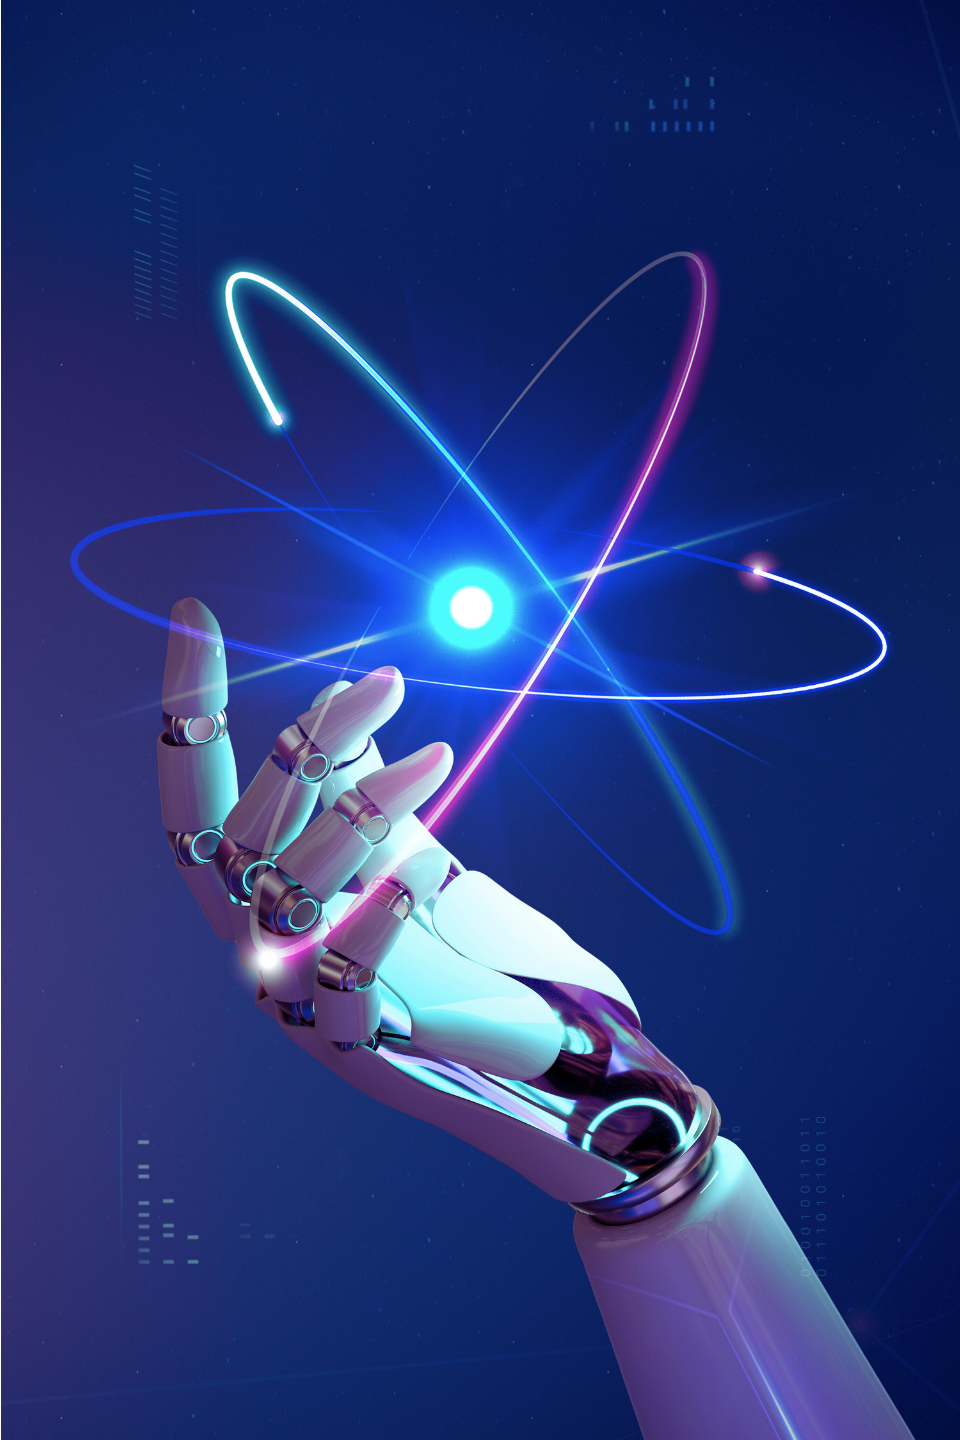
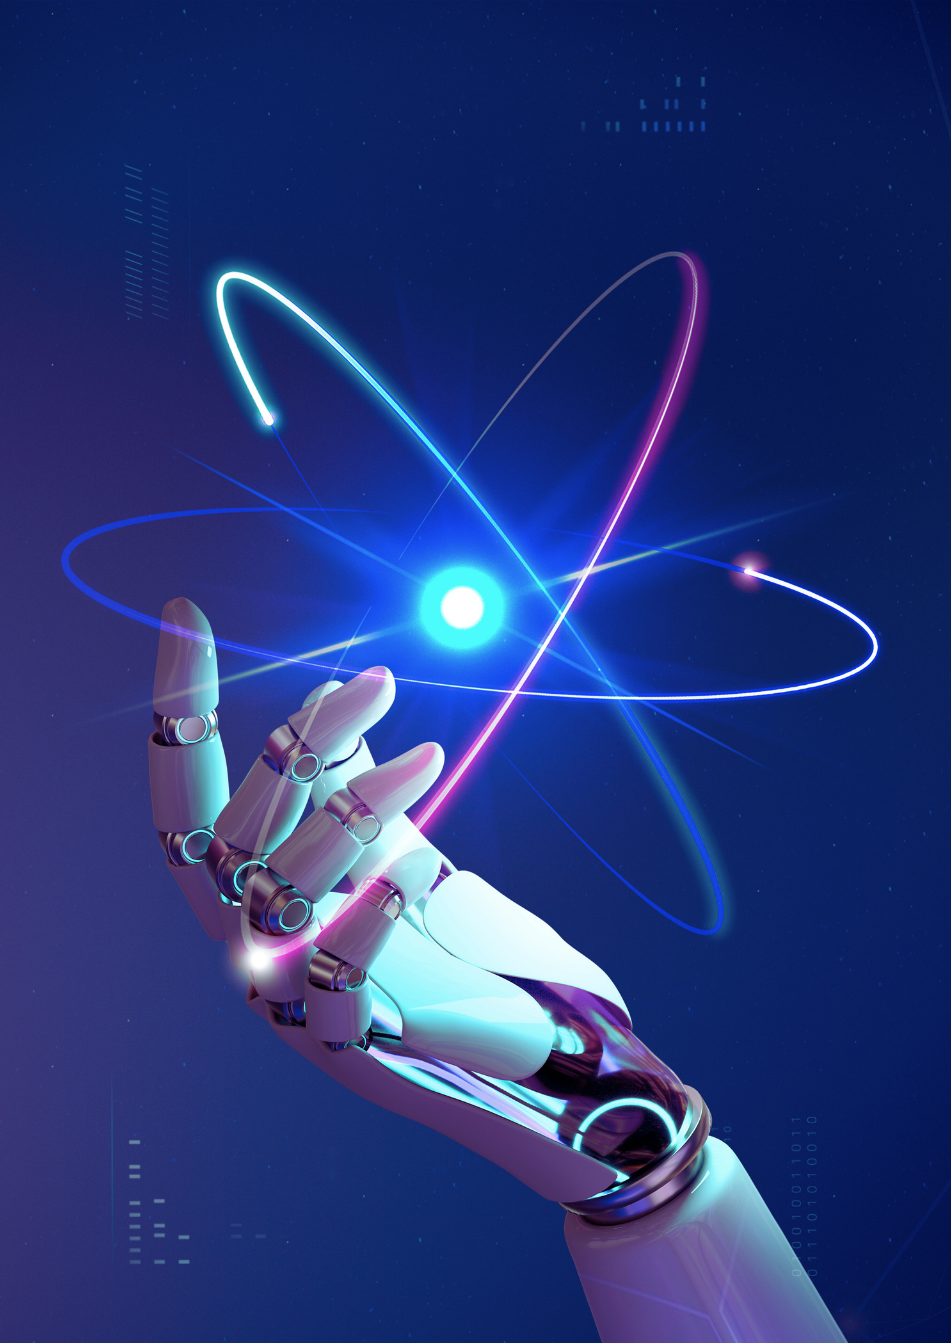
Menambah responsives.css sekaligus merevisi styles.css, page.js, index.js, dan image

diff --git a/src/styles/styles.css b/src/styles/styles.css
@@ -52,15 +52,16 @@ input:focus-visible,
 a:focus-visible {
   outline: none;
   box-shadow: 0 0 0 2px var(--blue);
+}
 
 .main-header {
   display: none;
 }
 
-.login-container {
+.auth-container {
   display: grid;
   grid-template-columns: 1fr 1fr;
-  max-height: 100vh;
+  height: 100vh;
   width: 100%;
   overflow: hidden;
   align-content: center;
@@ -68,23 +69,23 @@ a:focus-visible {
   color: var(--primary-text-color);
 }
 
-.login-image img {
+.auth-image img {
   display: block;
   width: 100%;
   height: 100%;
   object-fit: cover;
+  user-select: none;
 }
 
-.login-form-container {
+.auth-form-container {
   width: 100%;
   display: flex;
   justify-content: center;
   align-items: center;
   background-color: var(--blue-darkest);
-  margin-inline: auto;
 }
 
-.login-form {
+.auth-form {
   display: flex;
   flex-direction: column;
   gap: 25px;
@@ -94,8 +95,12 @@ a:focus-visible {
 .form-header {
   display: flex;
   flex-direction: column;
-  gap: 15px;
-  margin-block: 20px;
+  gap: 12px;
+  margin-block: 10px;
+}
+
+.form-header p {
+  color: var(--secondary-text-color);
 }
 
 .form-logo {
@@ -110,7 +115,7 @@ a:focus-visible {
 .form-control {
   display: flex;
   flex-direction: column;
-  gap: 15px;
+  gap: 12px;
 }
 
 .form-control label {
@@ -120,13 +125,12 @@ a:focus-visible {
 .form-buttons {
   display: flex;
   flex-direction: column;
-  gap: 20px;
-  margin-block: 20px;
+  gap: 25px;
+  margin-block: 10px;
 }
 
 .form-buttons a {
   color: var(--purple-light);
-  text-decoration: none;
 }
 
 .form-buttons p {
@@ -143,28 +147,37 @@ a:focus-visible {
 
 .form-input-container input {
   background-color: transparent;
-  min-height: 44px;
-  min-width: 44px;
   width: 100%;
-  padding: 15px 50px;
-  border-radius: 999px;
+  padding: 15px 25px 15px 60px;
   border: 1px solid var(--blue-light);
+  border-radius: 999px;
   color: var(--primary-text-color);
 
   font-size: 1rem;
   font-family: "Inter", sans-serif;
 
-  resize: vertical;
   transition: 150ms ease-in-out;
 }
 
 .form-input-container i {
   position: absolute;
-  left: 20px;
+  left: 25px;
   top: 50%;
   transform: translateY(-50%);
 }
 
 .form-input-container input::placeholder {
   color: var(--primary-text-color);
+}
+
+/* Menghilangkan style auto-fill */
+.form-input-container input:-webkit-autofill {
+  -webkit-box-shadow: 0 0 0 1000px var(--blue-darkest) inset;
+  -webkit-text-fill-color: var(--primary-text-color);
+  transition: background-color 5000s ease-in-out 0s;
+}
+
+/* Mengubah warna icon mata */
+input[type="password"]::-ms-reveal {
+  filter: invert(100%);
 }

diff --git a/src/scripts/pages/auth/register/register-page.js b/src/scripts/pages/auth/register/register-page.js
@@ -1,12 +1,12 @@
 export default class RegisterPage {
   async render() {
     return `
-      <section class="register-container">
-          <div class="register-image">
+      <section class="auth-container">
+          <div class="auth-image">
             <img src="images/register-image.png" alt="Register image">
           </div>
-          <div class="register-form-container">
-            <form id="register-form" class="register-form">
+          <div class="auth-form-container">
+            <form id="auth-form" class="auth-form">
               <div class="form-header">
                 <h1 class="form-logo">Quibly</h1>      
                 <h2 class="form-title">Register New Account</h2>
@@ -44,7 +44,7 @@ export default class RegisterPage {
                 <div class="submit-button-container">
                   <button class="btn" type="submit">Register</button>
                 </div> 
-                <p>Already have an account?<a href="#/register">Login</a></p>
+                <p>Already have an account? <a href="#/login">Login</a></p>
               </div>
             </form>
           </div>

diff --git a/src/scripts/pages/auth/login/login-page.js b/src/scripts/pages/auth/login/login-page.js
@@ -1,12 +1,12 @@
 export default class LoginPage {
   async render() {
     return `
-      <section class="login-container">
-          <div class="login-image">
+      <section class="auth-container">
+          <div class="auth-image">
             <img src="images/login-image.png" alt="Login image">
           </div>
-          <div class="login-form-container">
-            <form id="login-form" class="login-form">
+          <div class="auth-form-container">
+            <form id="auth-form" class="auth-form">
               <div class="form-header">
                 <h1 class="form-logo">Quibly</h1>      
                 <h2 class="form-title">Login To Your Account</h2>
@@ -35,7 +35,7 @@ export default class LoginPage {
                 <div class="submit-button-container">
                   <button class="btn" type="submit">Login</button>
                 </div> 
-                <p>Don't have an account?<a href="#/register"> Register</a></p>
+                <p>Don't have an account? <a href="#/register">Register</a></p>
               </div>
             </form>
           </div>

diff --git a/src/styles/responsives.css b/src/styles/responsives.css
@@ -1,0 +1,29 @@
+@media screen and (max-width: 1000px) {
+  .auth-container {
+    grid-template-columns: 1fr 2fr;
+  }
+
+  .auth-form-container {
+    height: 100vh;
+  }
+
+  .auth-form {
+    width: 400px;
+  }
+}
+
+@media screen and (max-width: 800px) {
+  .auth-container {
+    grid-template-columns: 1fr;
+  }
+
+  .auth-image img {
+    display: none;
+  }
+}
+
+@media screen and (max-width: 600px) {
+  .auth-form {
+    width: 300px;
+  }
+}

diff --git a/src/scripts/index.js b/src/scripts/index.js
@@ -1,5 +1,6 @@
 // CSS imports
 import '../styles/styles.css';
+import '../styles/responsives.css';
 
 import App from './pages/app';
 
